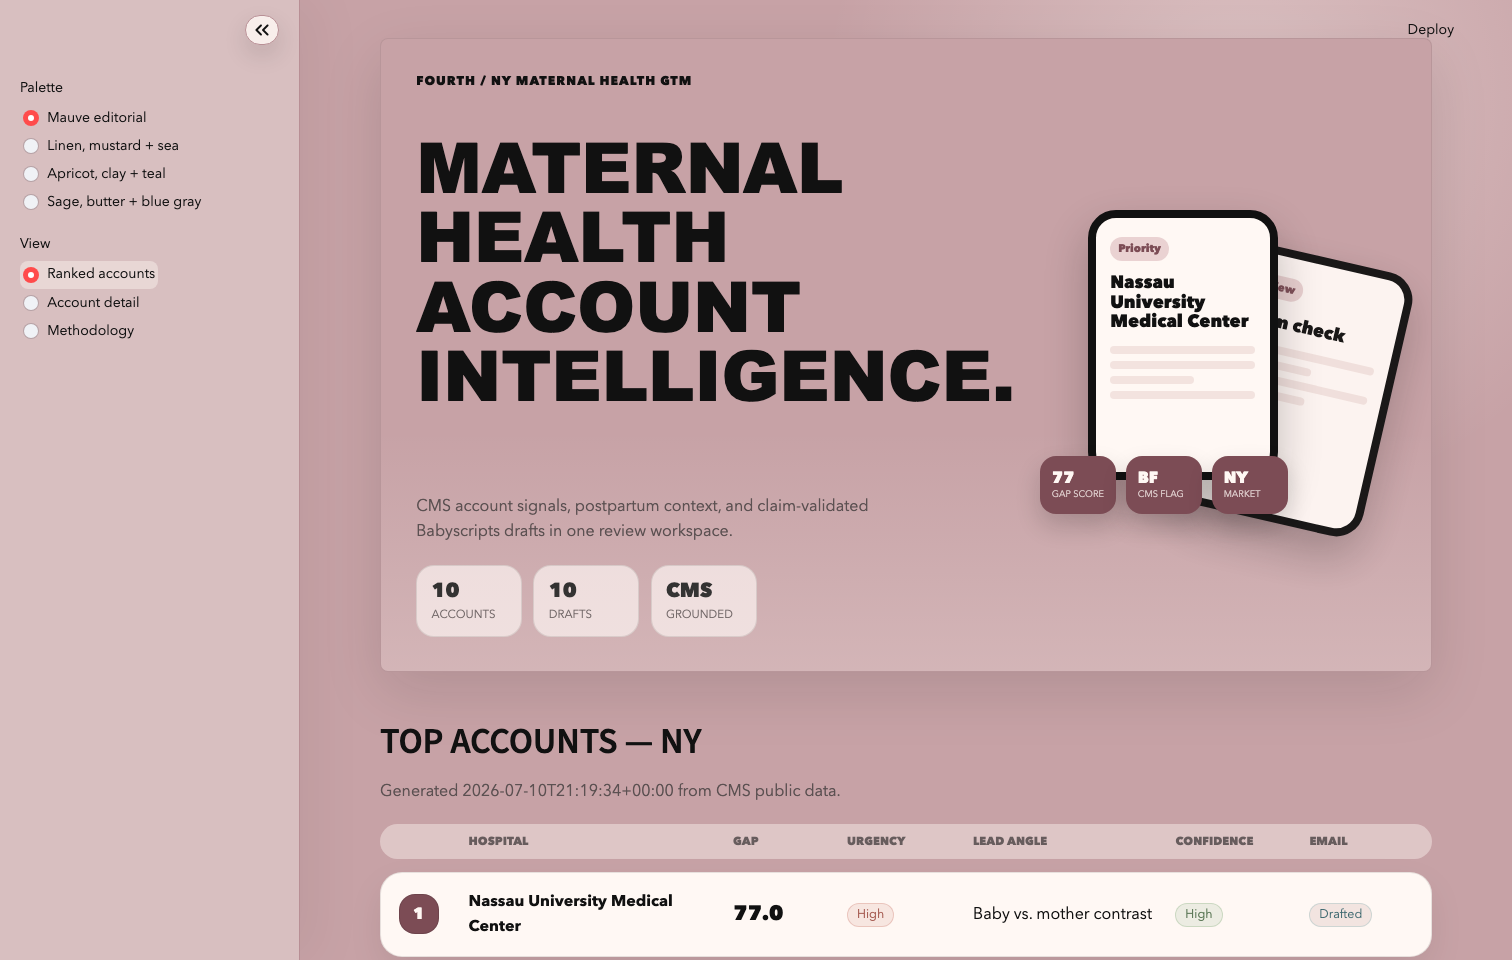
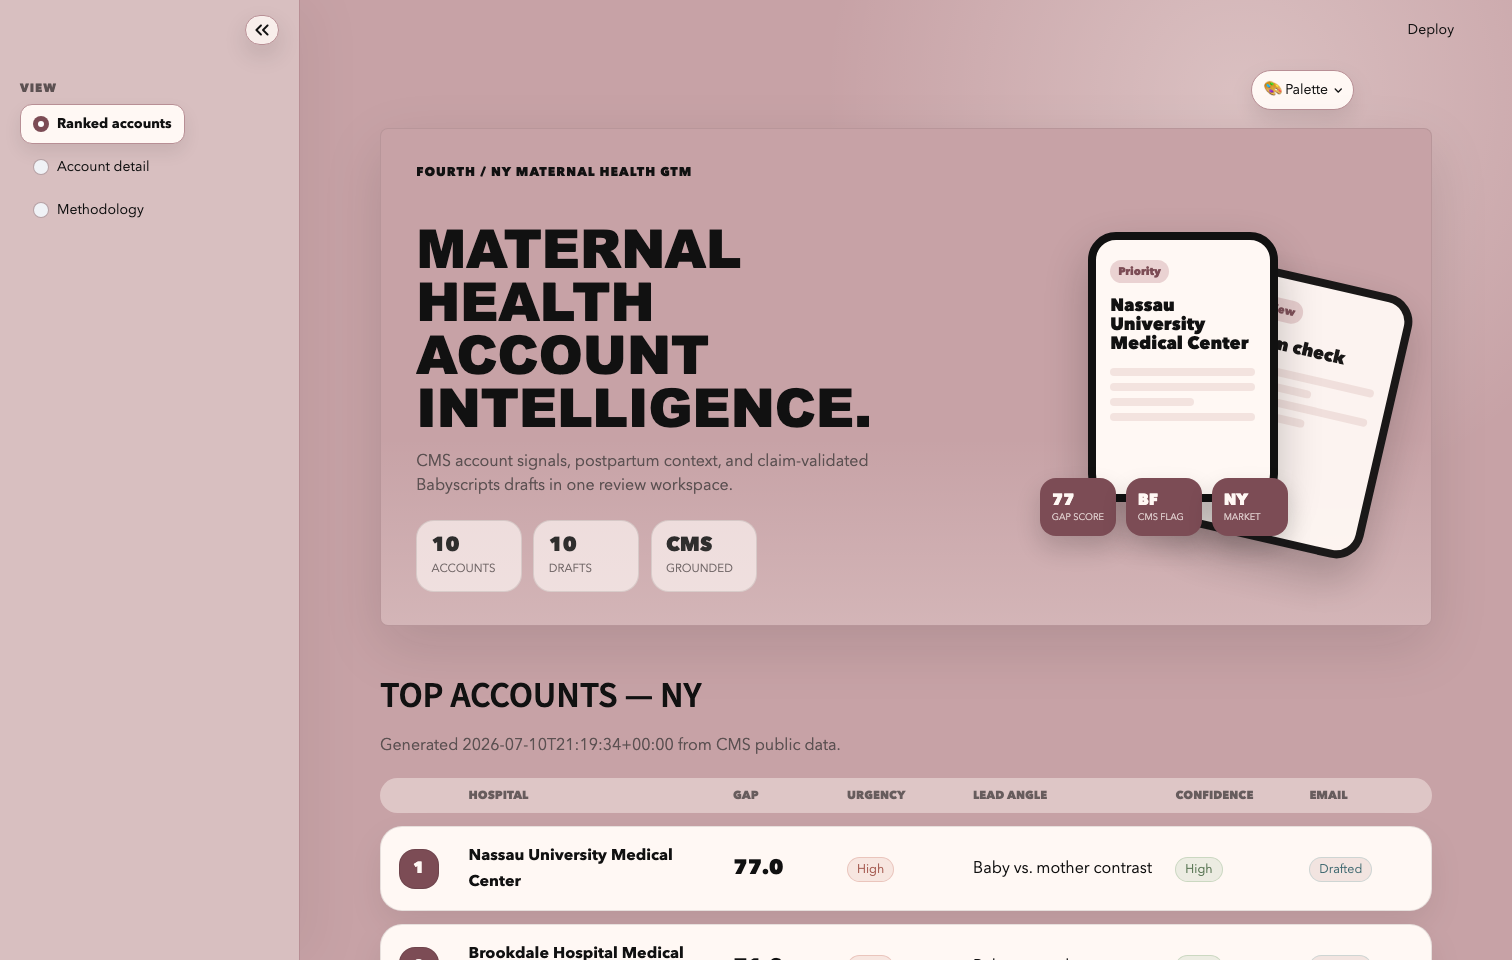
feat(app): palette popover top-right, themed sidebar nav, hero overflow fix
- palette picker moved from sidebar to a popover chip at top-right
- sidebar is now view navigation only: pill selection, no red accents
- base theme primaryColor replaces Streamlit default red globally
- hero headline sized to never clip behind the device visual; visual drops below 1150px
- content cleared below Streamlit's fixed header so the popover is always clickable
- README: live demo URL; refreshed screenshots

diff --git a/app.py b/app.py
@@ -224,13 +224,34 @@ button[title="Open sidebar"] svg {{
   color: var(--fourth-text) !important;
 }}
 
+/* Sidebar nav: hide native radio circles, render options as theme pills. */
+[data-testid="stSidebar"] [role="radiogroup"] label > div:first-child {{
+  display: none;
+}}
+
 [data-testid="stSidebar"] [role="radiogroup"] label {{
-  border-radius: 8px;
-  padding: 0.18rem 0.2rem;
+  display: flex;
+  align-items: center;
+  border-radius: 12px;
+  border: 1px solid transparent;
+  padding: 0.5rem 0.75rem;
+  margin-bottom: 0.15rem;
+  cursor: pointer;
+  transition: background 120ms ease, border-color 120ms ease;
 }}
 
 [data-testid="stSidebar"] [role="radiogroup"] label:hover {{
-  background: rgba(255, 248, 244, 0.42);
+  background: rgba(255, 248, 244, 0.5);
+}}
+
+[data-testid="stSidebar"] [role="radiogroup"] label:has(input:checked) {{
+  background: var(--fourth-surface);
+  border-color: var(--fourth-border);
+  box-shadow: 0 8px 18px rgba(17, 17, 17, 0.08);
+}}
+
+[data-testid="stSidebar"] [role="radiogroup"] label:has(input:checked) p {{
+  font-weight: 700;
 }}
 
 [data-testid="stSidebar"] [role="radiogroup"] p {{
@@ -238,8 +259,52 @@ button[title="Open sidebar"] svg {{
   -webkit-text-fill-color: var(--fourth-text) !important;
 }}
 
+/* Sidebar section label ("View") */
+[data-testid="stSidebar"] [data-testid="stWidgetLabel"] p {{
+  font-size: 0.74rem;
+  font-weight: 750;
+  letter-spacing: 0.08em;
+  text-transform: uppercase;
+  color: var(--fourth-muted) !important;
+  -webkit-text-fill-color: var(--fourth-muted) !important;
+}}
+
+/* Palette popover: trigger reads as a header chip; options match sidebar pills. */
+[data-testid="stPopover"] button {{
+  background: var(--fourth-surface);
+  border: 1px solid var(--fourth-border);
+  border-radius: 999px;
+  color: var(--fourth-text);
+  font-weight: 650;
+  box-shadow: 0 10px 24px rgba(17, 17, 17, 0.1);
+}}
+
+[data-testid="stPopover"] button:hover {{
+  border-color: var(--fourth-primary);
+  color: var(--fourth-text);
+}}
+
+[data-testid="stPopoverBody"] [role="radiogroup"] label > div:first-child {{
+  display: none;
+}}
+
+[data-testid="stPopoverBody"] [role="radiogroup"] label {{
+  display: flex;
+  border-radius: 10px;
+  border: 1px solid transparent;
+  padding: 0.45rem 0.65rem;
+  cursor: pointer;
+}}
+
+[data-testid="stPopoverBody"] [role="radiogroup"] label:has(input:checked) {{
+  background: var(--fourth-primary-soft);
+  border-color: var(--fourth-border);
+}}
+
 .block-container {{
-  padding-top: 1.25rem;
+  /* Clear Streamlit's fixed header (2.6rem) so the top row — the palette
+     popover — is never under its click-intercepting toolbar. */
+  padding-top: 3.4rem;
   padding-bottom: 3rem;
   max-width: 1280px;
 }}
@@ -333,7 +398,9 @@ hr {{
   margin: 0;
   max-width: 760px;
   font-family: var(--fourth-display-font);
-  font-size: clamp(2.55rem, 4.6vw, 5.25rem);
+  /* Max sized so "INTELLIGENCE." fits the text column without clipping
+     behind the device visual at any width. */
+  font-size: clamp(2.3rem, 3.5vw, 4rem);
   font-weight: 900;
   line-height: 1;
   text-transform: uppercase;
@@ -667,6 +734,19 @@ hr {{
   font-weight: 650;
 }}
 
+/* Between phone and full desktop the device visual crowds the headline —
+   drop it earlier than the full mobile breakpoint. */
+@media (max-width: 1150px) {{
+  .fourth-hero {{
+    grid-template-columns: 1fr;
+    min-height: auto;
+  }}
+
+  .fourth-visual {{
+    display: none;
+  }}
+}}
+
 @media (max-width: 760px) {{
   .block-container {{
     padding-left: 1rem;
@@ -959,13 +1039,9 @@ path (not exposed here) enforces an approval gate, a final send gate, a
 
 def main() -> None:
     st.set_page_config(page_title="Fourth — Account Intelligence", page_icon="🏥", layout="wide")
-    theme_key = st.sidebar.radio(
-        "Palette",
-        options=list(THEMES),
-        format_func=lambda key: THEMES[key]["label"],
-        index=0,
-    )
-    apply_theme(theme_key)
+    if "palette" not in st.session_state:
+        st.session_state.palette = next(iter(THEMES))
+    apply_theme(st.session_state.palette)
 
     if not RESULTS_PATH.exists():
         st.warning("Demo data not generated yet. Run:")
@@ -976,6 +1052,17 @@ def main() -> None:
     except (ValueError, json.JSONDecodeError) as exc:
         st.error(f"demo_results.json is invalid: {exc}")
         st.stop()
+
+    _, palette_col = st.columns([0.82, 0.18])
+    with palette_col:
+        with st.popover("🎨 Palette"):
+            st.radio(
+                "Palette",
+                options=list(THEMES),
+                format_func=lambda key: THEMES[key]["label"],
+                key="palette",
+                label_visibility="collapsed",
+            )
 
     render_header(data)
     view = st.sidebar.radio("View", ["Ranked accounts", "Account detail", "Methodology"])

diff --git a/README.md b/README.md
@@ -6,7 +6,7 @@ ranks them with a 3-layer gap score, and drafts claim-validated outbound
 email for a GTM engineer to review. Built for maternal health companies
 like Babyscripts; hospitals are the sales targets.
 
-**Live demo:** _coming soon_ · ![CI](https://github.com/LubaKaper/FOURTH/actions/workflows/ci.yml/badge.svg)
+**Live demo:** https://fourth.streamlit.app · ![CI](https://github.com/LubaKaper/FOURTH/actions/workflows/ci.yml/badge.svg)
 
 ![Ranked accounts view](docs/images/app-accounts.png)
 